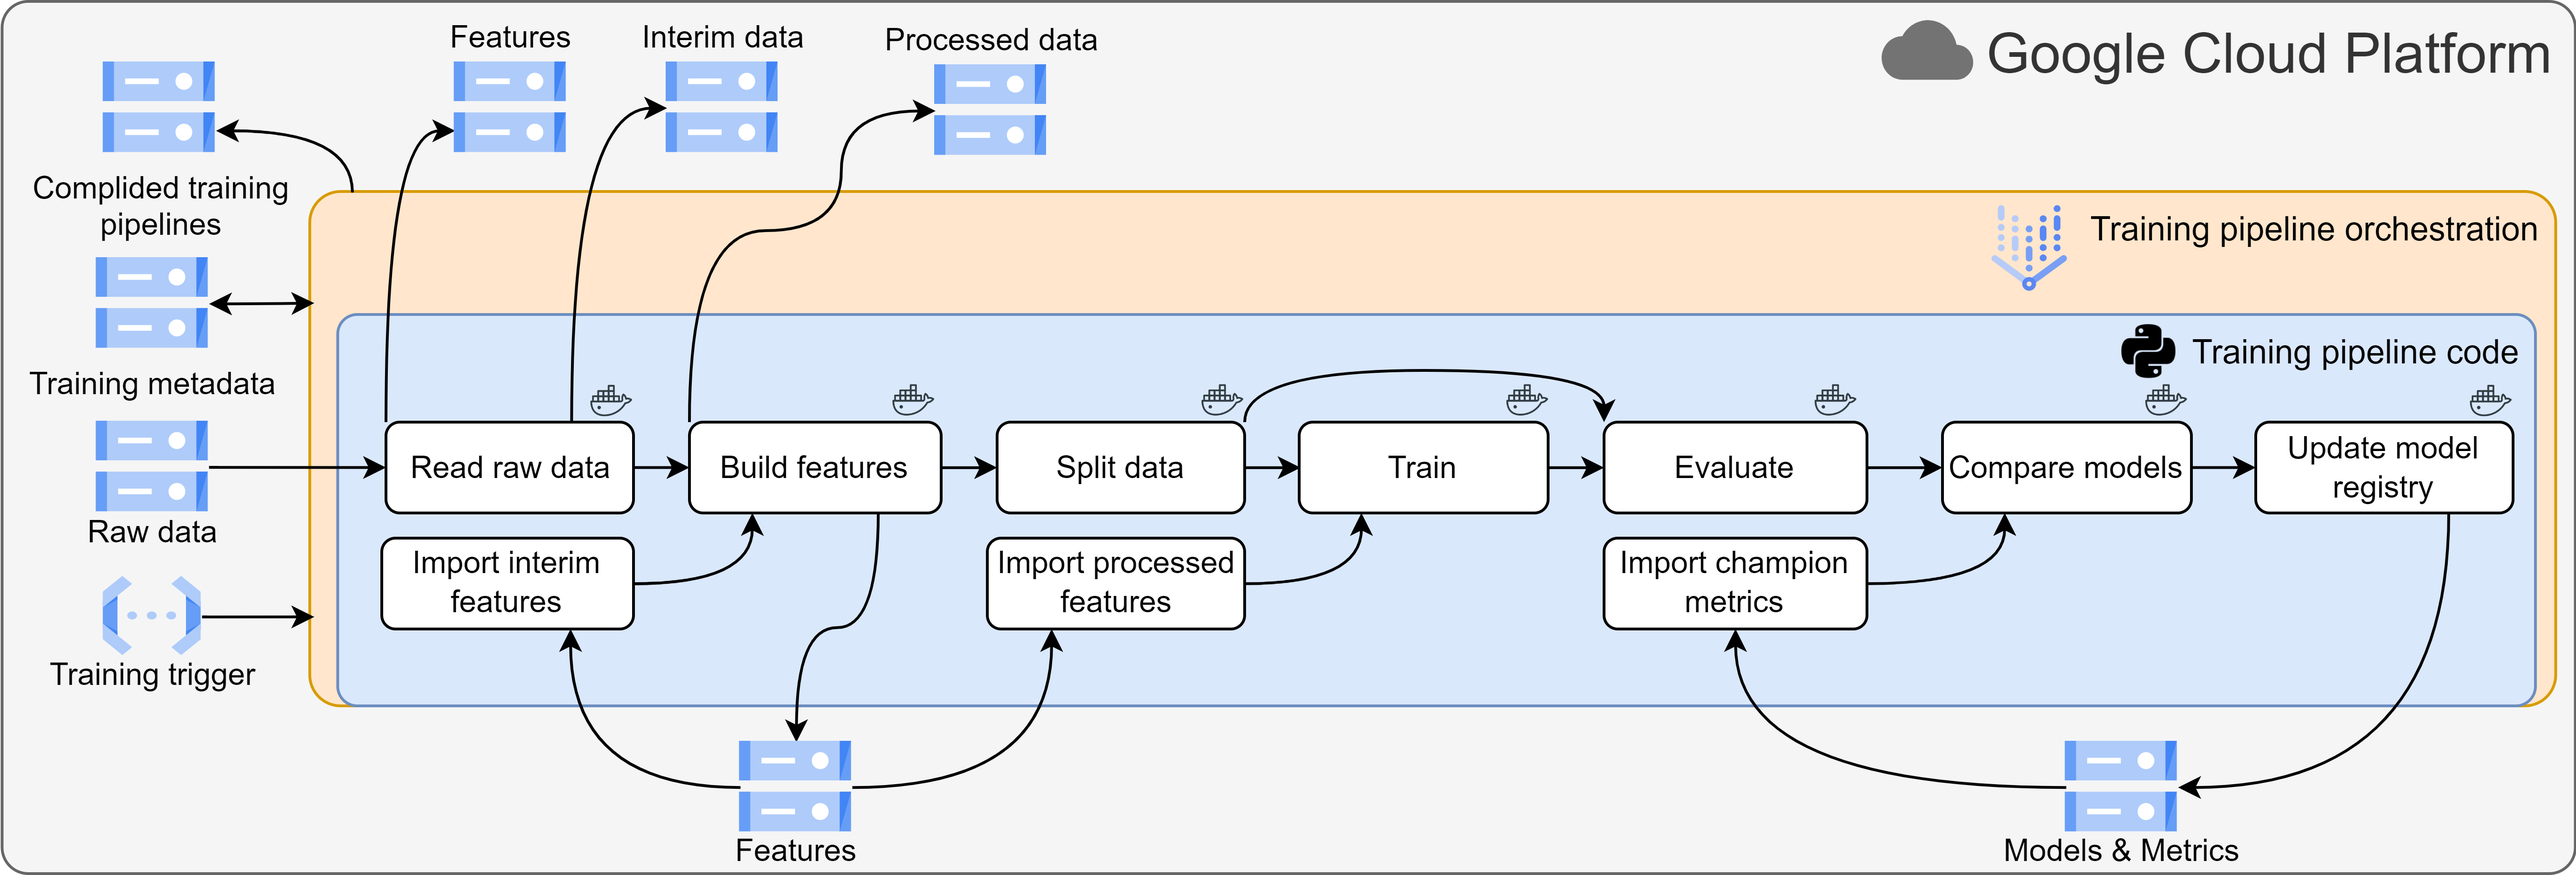
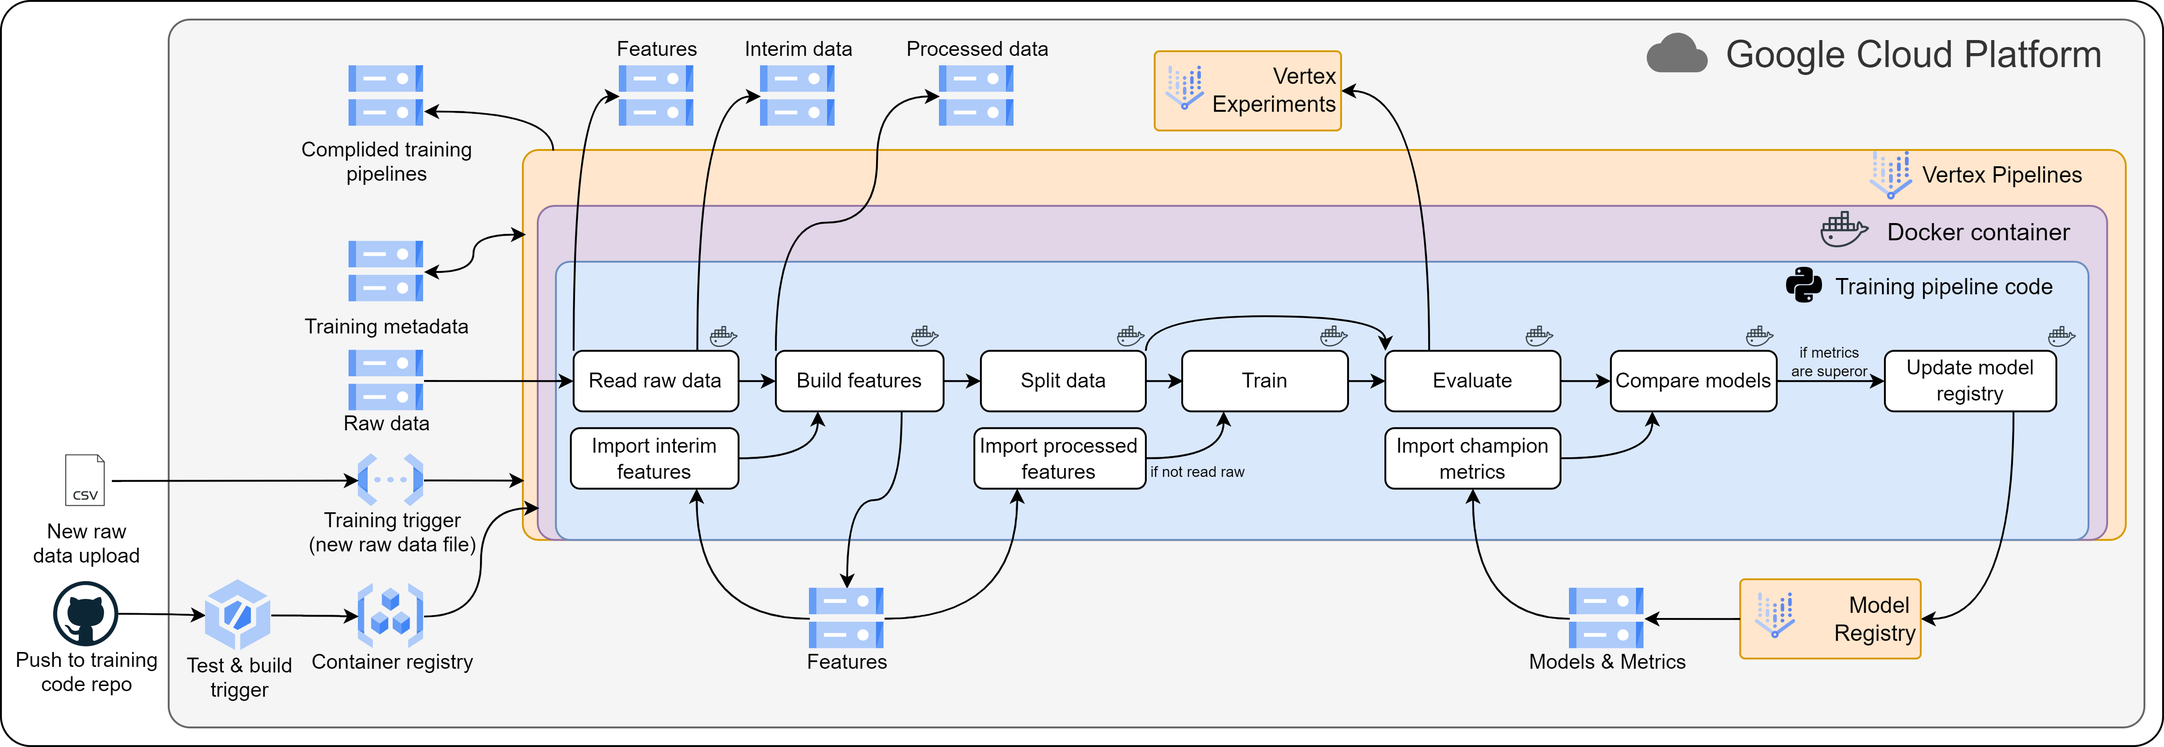
readme, docstring, images revised

diff --git a/src/components/read_raw_data.py b/src/components/read_raw_data.py
@@ -9,7 +9,7 @@ def read_raw_data(
     interim_data: Output[Dataset],
     raw_features: Output[Artifact],
 ) -> None:
-    """Read raw data files from the GCS bucket, specified by `bucket_name`. Uploads the combined data frame to the interim data directory in the GCS bucket.
+    """Read raw data files from the GCS raw data bucket storage. Uploads the combined data frame to the interim data directory in the GCS bucket.
 
     Args:
         interim_data (Output[Dataset]): Interim data
@@ -72,7 +72,7 @@ def read_raw_data(
         interim_data.path + '.csv',
         index=False,
     )
-    logging.info('Interim dataframe uploaded to the piepline metadata store')
+    logging.info('Interim dataframe uploaded to the pipeline metadata store')
     final_df.to_csv(
         os.path.join('gcs', 'test_rig_interim_data', 'interim_data.csv'),
         index=False,
@@ -81,8 +81,7 @@ def read_raw_data(
     with open(raw_features.path + '.json', 'w') as features_file:
         json.dump(final_df.columns.to_list(), features_file)
     logging.info('Raw features uploaded to the pipeline metadata store')
-    with open(
-            os.path.join('gcs', 'test_rig_features',
-                         'raw_features.json'), 'w') as features_file:
+    with open(os.path.join('gcs', 'test_rig_features', 'raw_features.json'),
+              'w') as features_file:
         json.dump(final_df.columns.to_list(), features_file)
-    logging.info('Raw features uploaded to the featues store')
+    logging.info('Raw features uploaded to the features store')

diff --git a/src/components/upload_model_to_registry.py b/src/components/upload_model_to_registry.py
@@ -22,6 +22,23 @@ def upload_model_to_registry(
     keras_model: Input[Model],
     metrics: Input[Metrics],
 ) -> None:
+    """
+    Uploads the scaler and keras models to the models registry. Uploads the parameters and metrics of the model.
+
+    Args:
+    feature (str): Feature string to train on
+    train_data_size (str): Proportion of train/test split
+    lookback (int): Length of the lookback window
+    lstm_units (int): Number of the LSTM units in the RNN
+    learning_rate (float): Initial learning rate
+    epochs (int): Number of epochs to train
+    batch_size (int): Batch size
+    patience (int): Number of patient epochs before the callbacks activate
+    train_data (Input[Dataset]): Train dataset
+    scaler_model (Output[Model]): Scaler model
+    keras_model (Output[Model]): Keras model
+    metrics (Output[Metrics]): Evaluation metrics
+    """
     import json
     import os
 

diff --git a/src/components/compare_models.py b/src/components/compare_models.py
@@ -9,7 +9,17 @@ def compare_models(
     absolute_difference: float = 0.0,
 ) -> bool:
     """
+    Compares evaluation metrics of the trained (challenger) model and the champion (the one in the model registry)
     https://github.com/GoogleCloudPlatform/vertex-pipelines-end-to-end-samples/blob/main/pipelines/kfp_components/evaluation/compare_models.py
+
+    Args:
+        challenger_metrics (Input[Metrics]): Challenger metrics
+        champion_metrics (Input[Metrics]): Champion metrics
+        evaluation_metric (str): Evaluation metrics to use for comparison, default 'root_mean_squared_error'
+        absolute_difference (float): The difference to use in comparison, default 0.0
+    
+    Returns:
+        chal_is_better (bool): True if challenger has superior metrics than the champion
     """
     import json
     import logging

diff --git a/src/components/train.py b/src/components/train.py
@@ -23,7 +23,7 @@ def train(
     keras_model: Output[Model],
     train_metrics: Output[Metrics],
 ) -> None:
-    """Instantiates, trains the RNN model on the train dataset. Saves the trained scaler and the keras model to the metadata store, saves the evaluation metrics file as well.
+    """Instantiates, trains the RNN model on the train dataset. Saves the trained scaler and the keras model to the metadata store, logs the training metrics and tensorboard event file.
 
     Args:
         feature (str): Feature string to train on

diff --git a/src/components/evaluate.py b/src/components/evaluate.py
@@ -23,7 +23,7 @@ def evaluate(
     keras_model: Input[Model],
     eval_metrics: Output[Metrics],
 ) -> None:
-    """Evaluates the trained keras model, saves the evaludation metrics to the metadata store
+    """Evaluates the trained keras model, saves the evaluation metrics to the metadata store
 
     Args:
         feature (str): Feature string to train on

diff --git a/README.md b/README.md
@@ -1,11 +1,26 @@
 # Training pipeline
 
-The repo contains the source code and pipeline configurations to automate the test rig state analysis and failure forecasting. The code uses Vertex AI Pipelines with Kubeflow SDK. 
+The repo contains the source code and pipeline configurations to automate retraining of the test rig forecaster. The code uses Vertex AI Pipelines with Kubeflow SDK to orchestrate execution of the pipeline.
 
 ## Pipeline diagram
 
 ![Training pipeline](https://github.com/ivanokhotnikov/test_rig_forecast_training/blob/master/images/training_pipeline.png?raw=true)
 
-## Directred acyclic graph diagram
+## Pipeline steps
+
+|Step   |Component          |Description                                                                                                                               |Inputs     |Outputs                           |Parameters    |Base image        |
+|:---   |:---               |:---                                                                                                                                      |:---       |:---                              |:---          |:---              |
+|1      |`read-raw-data`    |Reads raw data files from the GCS raw data bucket storage. Uploads the combined data frame to the interim data directory in the GCS bucket|           |`interim_data`<br/>`all_features` |              |`python:3.10-slim`|
+|1a     |`importer`         |Imports interim features                                                                                                                  |           |`interim_features`                |`artifact_uri`|                  |
+|2      |`build-features`   |Reads the interim data, builds features (float down casting, removes NaNs and the step zero data, adds the power and time features to the processed data), saves the processed data|`interim_features`<br/>`interim_data`|`processed_data`<br/>`processed_features`| |`python:3.10-slim`|
+|3      |`split-data`       |Splits processed data into train and test data|`processed_data`|`train_data`<br/>`test_data`|`train_data_size`|`python:3.10-slim`|
+|3a     |`import-forecast-features`|Imports forecast features||`forecast_features`|||
+|4      |`train`            |Instantiates, trains the RNN model on the train dataset. Saves the trained scaler and the keras model to the metadata store, logs the training metrics and tensorboard event file|`train_data`|`scaler_model`<br/>`keras_model`<br/>`train_metrics`|`feature`<br/>`lookback`<br/>`lstm_units`<br/>`learning_rate`<br/>`epochs`<br/>`batch_size`<br/>`patience`|`tensorflow:latest-gpu`|
+|5      |`evaluate`         |Evaluates the trained keras model, saves the evaluation metrics to the metadata store|`test_data`<br/>`scaler_model`<br/>`keras_model`<br/>|`eval_metrics`<br/>|`feature`<br/>`lookback`<br/>`lstm_units`<br/>`learning_rate`<br/>`epochs`<br/>`batch_size`<br/>`patience`|`tensorflow:latest-gpu`|
+|5a     |`import-champion-metrics`|Imports champion metrics||`champion_metrics`|||
+|6      |`compare-models`   |Compares evaluation metrics of the trained (challenger) model and the champion (the one in the model registry)|`eval_metrics`<br/>`champion_metrics`|`output`|`evaluation_metric`<br/>`absolute_difference`|`python:3.10-slim`|
+|7      |`upload-model-to-registry`|Uploads the scaler and keras models to the models registry. Uploads the parameters and metrics of the model|`scaler_model`<br/>`keras_model`<br/>`eval_metrics`||`feature`<br/>`lookback`<br/>`lstm_units`<br/>`learning_rate`<br/>`epochs`<br/>`batch_size`<br/>`patience`|`tensorflow:latest-gpu`
+
+## Directed acyclic graph diagram
 
 ![Training pipeline's DAG](https://github.com/ivanokhotnikov/test_rig_forecast_training/blob/master/images/training_dag.png?raw=true)
